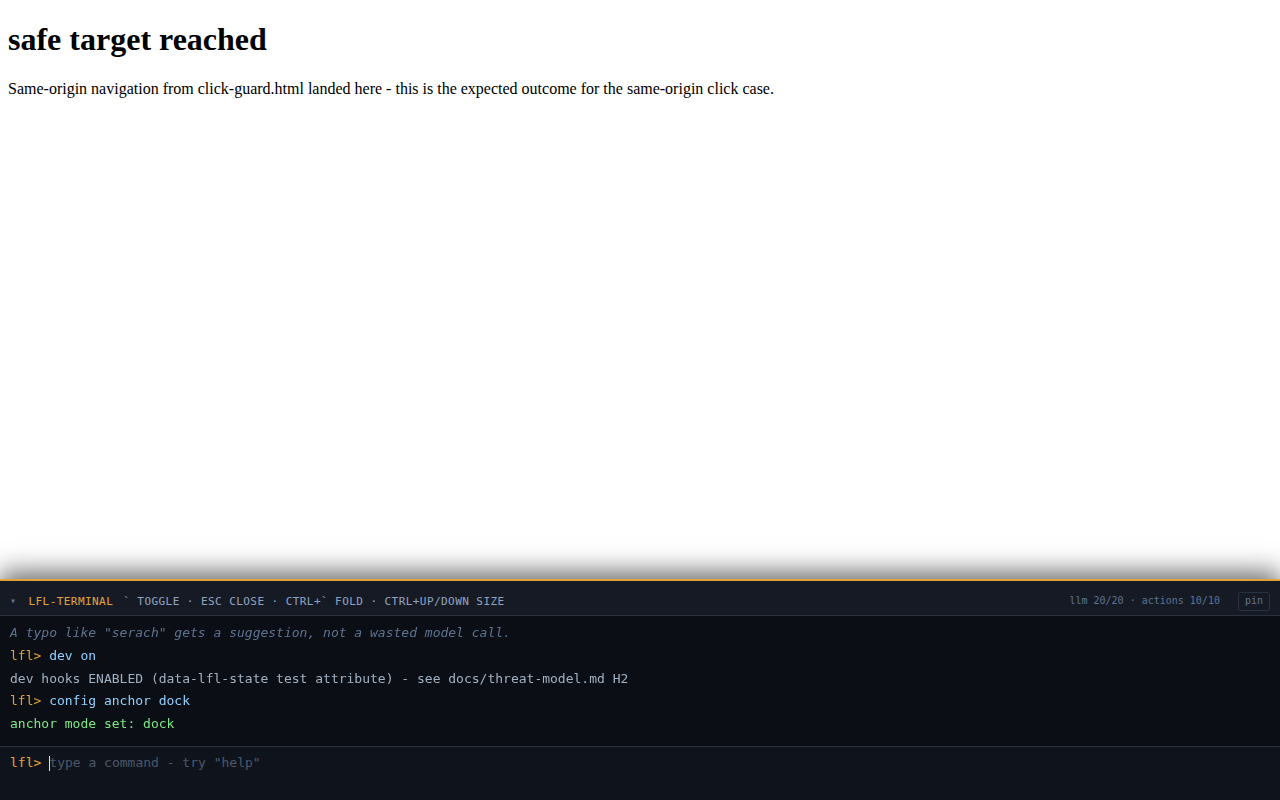
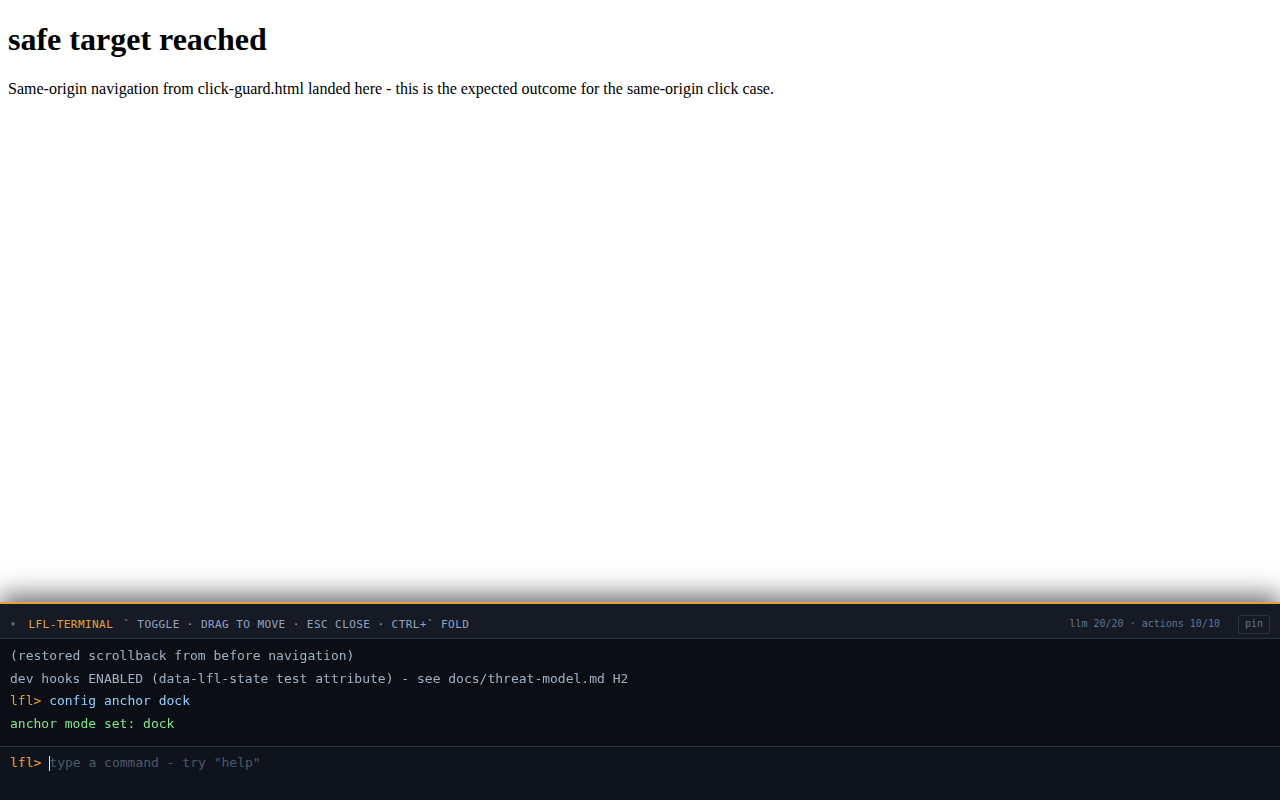
Popover: spawn at cursor on hotkey + always-draggable title bar
Two friction points from dogfooding. (1) Backtick / Ctrl+K / toolbar now spawn the panel at the last cursor position instead of top-center, so it lands where your attention already is; a fresh page where the mouse has not moved yet still falls back to the deterministic top-center spot. (2) The title bar is now always draggable - previously you had to type pin before dragging worked, which nobody would guess. pin now means only "keep this spot across opens / stop following my cursor"; an unpinned drag moves the panel for the current open and does not persist. Title bar hint and tooltips updated so both are discoverable.

JS only, no CSS change (css_sync gate green). popover_smoke.py gains cursor-spawn, fresh-page-fallback, and unpinned-drag cases; 24 live browser checks pass.

Changed region(s): [[0.0, 0.6875, 1.0, 0.8438]]

diff --git a/extension/content/terminal.js b/extension/content/terminal.js
@@ -503,7 +503,7 @@
 
       const titlebar = document.createElement('div');
       titlebar.className = 'lfl-titlebar';
-      titlebar.title = 'click to fold / unfold (or Ctrl+`)';
+      titlebar.title = 'drag to move · click to fold / unfold (or Ctrl+`)';
       // Popover redesign (2026-07-15): dragging the titlebar (while pinned)
       // moves the floating panel - see _startTitlebarDrag(). That has to be
       // disambiguated from the pre-existing click-to-collapse toggle below:
@@ -525,7 +525,7 @@
       badge.className = 'lfl-badge';
       badge.textContent = 'lfl-terminal';
       const hint = document.createElement('span');
-      hint.textContent = '` toggle · Esc close · Ctrl+` fold · Ctrl+Up/Down size';
+      hint.textContent = '` toggle · drag to move · Esc close · Ctrl+` fold';
       this.budgetEl = document.createElement('span');
       this.budgetEl.className = 'lfl-budget';
       // Popover redesign: pin toggle - freezes the floating panel at its
@@ -535,7 +535,7 @@
       // titlebar control.
       this.pinBtn = document.createElement('span');
       this.pinBtn.className = 'lfl-pin-btn';
-      this.pinBtn.title = 'pin panel in place (drag titlebar to move) - or type "pin"/"unpin"';
+      this.pinBtn.title = 'pin: keep the panel here across opens (otherwise it spawns at your cursor) - or type "pin"/"unpin"';
       this.pinBtn.textContent = 'pin';
       this.pinBtn.addEventListener('click', (e) => {
         if (!LFL.guards.isTrustedInputEvent(e)) return; // M3 H1 - see guards.js
@@ -894,7 +894,17 @@
           this.host.style.left = `${this._panelPos.left}px`;
           this.host.style.top = `${this._panelPos.top}px`;
         } else {
-          const anchor = opts.anchor || this._keyboardAnchor();
+          // Spawn where the user's attention already is (owner request,
+          // 2026-07-16): an explicit anchor (the middle-click point) wins;
+          // otherwise use the last TRUSTED pointer position seen on this page
+          // (backtick/Ctrl+K/toolbar all land at the cursor). A fresh page
+          // where the mouse has not moved yet has no pointer to anchor to
+          // (_lastPointer is null - it is reset per content-script injection,
+          // so a post-navigation reopen also lands here), and falls back to
+          // the deterministic top-center spot rather than a stale/unrelated
+          // position.
+          const anchor = opts.anchor
+            || (this._lastPointer ? { x: this._lastPointer.x, y: this._lastPointer.y } : this._keyboardAnchor());
           this._placeAt(anchor.x, anchor.y);
         }
       }
@@ -1053,7 +1063,13 @@
     // this gesture actually moved the panel.
     _startTitlebarDrag(e) {
       if (!LFL.guards.isTrustedInputEvent(e)) return; // M3 H1 - see guards.js
-      if (!this._pinned) return;
+      // The title bar is ALWAYS draggable (owner request, 2026-07-16 - the
+      // old "must pin first" gate was undiscoverable). Dragging while
+      // UNPINNED just moves the panel for the current open; the next open
+      // re-anchors to the cursor. Dragging while PINNED updates the
+      // remembered spot (persisted on release, below). So pin means "stop
+      // following my cursor, stay exactly here across opens" - not "unlock
+      // dragging".
       if (e.target === this.pinBtn) return; // the pin button handles its own click
       const startX = e.clientX;
       const startY = e.clientY;
@@ -1077,7 +1093,11 @@
       const onUp = () => {
         window.removeEventListener('mousemove', onMove, true);
         window.removeEventListener('mouseup', onUp, true);
-        if (this._titlebarDragged) {
+        // Only a PINNED drag updates the remembered spot. An unpinned drag
+        // moved the panel for this open only (inline left/top is already
+        // set); it deliberately persists nothing, so the next open still
+        // spawns at the cursor - pin is what makes a position stick.
+        if (this._titlebarDragged && this._pinned) {
           const finalRect = this.host.getBoundingClientRect();
           this._panelPos = { left: finalRect.left, top: finalRect.top };
           this._persistPlacementPrefs({ lflPanelPos: this._panelPos });

diff --git a/tests/popover_smoke.py b/tests/popover_smoke.py
@@ -171,24 +171,50 @@ def run():
                 time.sleep(0.1)
             check("dev on: data-lfl-state now populated", state is not None)
 
-            # ---- case 1: default cursor mode spawns near a clicked point ----
+            # ---- case 1: backtick spawns AT the cursor (owner request 2026-07-16) ----
             toggle_terminal(page)  # close
-            page.mouse.move(300, 500)
-            toggle_terminal(page)  # reopen - keyboard trigger, so this uses the
-            # deterministic keyboard-fallback anchor (top-center), NOT the mouse
-            # position above - see design §5/§6. Confirms cursor mode is active
-            # (no .lfl-dock) and the panel is placed somewhere on-screen.
+            page.mouse.move(300, 500)  # this trusted pointer move is now the anchor
+            toggle_terminal(page)  # reopen via backtick -> lands at the last pointer,
+            # NOT top-center. left tracks anchorX (300) directly; top is anchorY+offset
+            # unless the panel would overflow the bottom, in which case placePanel flips
+            # it above (still cursor-anchored). Assert it is near the cursor, not centered.
             rect = host_rect(page)
             state = read_lfl_state(page)
             check("cursor mode is the default (state.anchorMode)", state and state.get("anchorMode") == "cursor")
             check("cursor mode: host has no .lfl-dock class", rect and rect["hasDock"] is False)
             check("cursor mode: host carries an inline position (not dock/inset)", rect and rect["inlineLeft"] != "" and rect["inlineTop"] != "")
             check(
-                "cursor mode: panel is placed within the viewport (not clipped off-screen)",
+                "backtick spawns at the cursor: left == anchorX (300), not screen-centered",
+                rect and abs(rect["left"] - 300) < 1,
+                detail=str(rect),
+            )
+            check(
+                "cursor spawn: panel still fully within the viewport",
                 rect and 0 <= rect["left"] <= 1280 and 0 <= rect["top"] <= 800,
                 detail=str(rect),
             )
             page.screenshot(path=str(SHOTS_DIR / "01-cursor-mode-open.png"))
+
+            # ---- case 1b: fresh page (no pointer yet) falls back to top-center ----
+            # Navigate to a fresh injection so _lastPointer is null. The panel
+            # was open, so it may auto-restore-open (also a no-pointer open, the
+            # exact path under test); if it does not, press backtick. Either way
+            # the open here has no pointer and must land top-center.
+            page.goto(f"http://127.0.0.1:{PORT}/safe-target.html")
+            page.wait_for_function(
+                "() => document.documentElement.hasAttribute('data-lfl-terminal-injected')", timeout=5000)
+            time.sleep(0.5)  # let _restoreTerminalState settle (may auto-reopen)
+            if not is_open(page):
+                page.evaluate("() => document.activeElement && document.activeElement.blur && document.activeElement.blur()")
+                page.keyboard.press("Backquote")
+                wait_open_state(page, True)
+            rect = host_rect(page)
+            centered_left = (1280 - min(520, 1280 * 0.92)) / 2
+            check(
+                "fresh page, no pointer: open falls back to top-center",
+                rect and abs(rect["left"] - centered_left) < 2,
+                detail=f"left={rect['left']} expected~{centered_left}",
+            )
 
             # ---- case 2: config anchor dock -> legacy full-width bottom bar ----
             submit_command(page, "config anchor dock")
@@ -207,6 +233,33 @@ def run():
             toggle_terminal(page)  # reopen in cursor mode
             rect = host_rect(page)
             check("back to cursor mode: .lfl-dock removed, inline position restored", rect and rect["hasDock"] is False and rect["inlineLeft"] != "")
+
+            # ---- case 3b: title bar is ALWAYS draggable (unpinned), and an
+            # unpinned drag does NOT persist - next open re-anchors to cursor ----
+            rect0 = host_rect(page)  # open, cursor mode, unpinned
+            grab_x = rect0["left"] + 60      # on the title bar, left of the pin button
+            grab_y = rect0["top"] + 12       # below the 7px resize grip
+            page.mouse.move(grab_x, grab_y)
+            page.mouse.down()
+            page.mouse.move(grab_x + 150, grab_y + 120, steps=8)  # exceed the 4px drag threshold
+            page.mouse.up()
+            rectD = host_rect(page)
+            state = read_lfl_state(page)
+            check(
+                "unpinned drag moves the panel (title bar always draggable)",
+                rectD and abs(rectD["left"] - (rect0["left"] + 150)) < 3,
+                detail=f"before={rect0['left']} after={rectD['left']}",
+            )
+            check("unpinned drag does not pin the panel", state and state.get("pinned") is False)
+            toggle_terminal(page)  # close
+            page.mouse.move(700, 400)  # a clearly different cursor position
+            toggle_terminal(page)  # reopen -> should re-anchor to the cursor, NOT the dragged spot
+            rectR = host_rect(page)
+            check(
+                "after an unpinned drag, reopen re-anchors to the cursor (drag did not persist)",
+                rectR and abs(rectR["left"] - 700) < 1 and abs(rectR["left"] - rectD["left"]) > 20,
+                detail=f"dragged={rectD['left']} reopened={rectR['left']} (cursor was 700)",
+            )
 
             # ---- case 4: pin freezes position across a close/reopen at a different anchor ----
             submit_command(page, "pin")